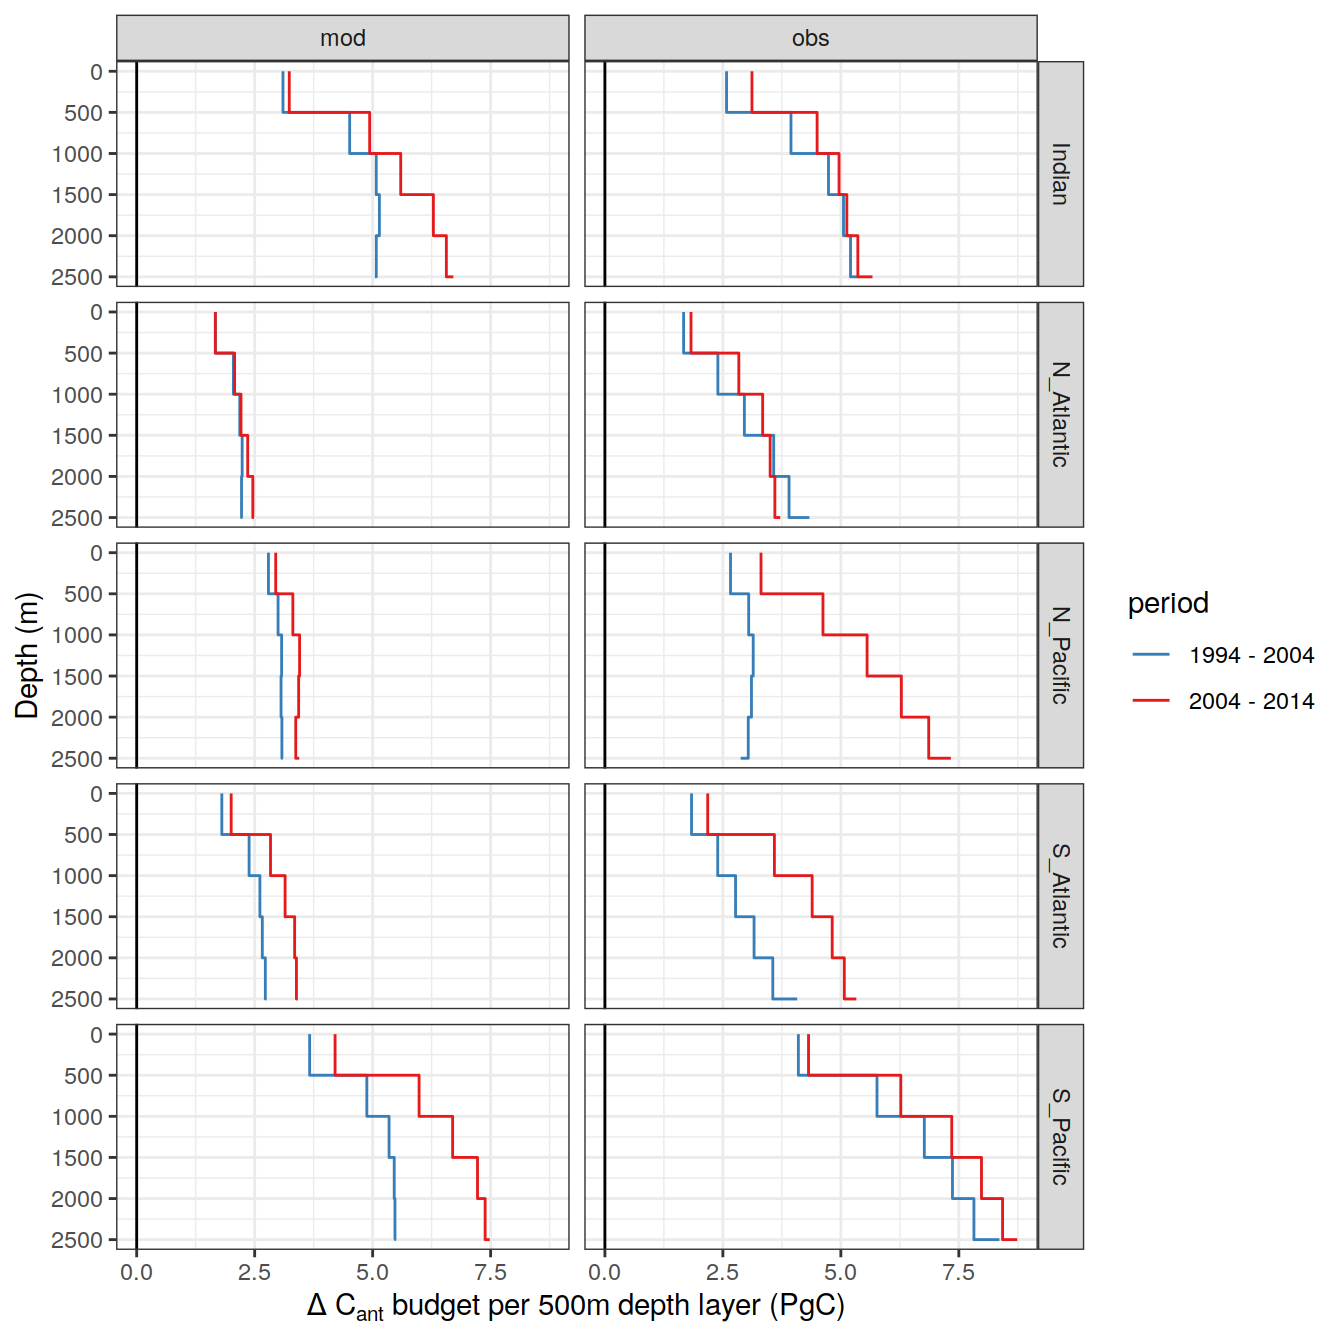
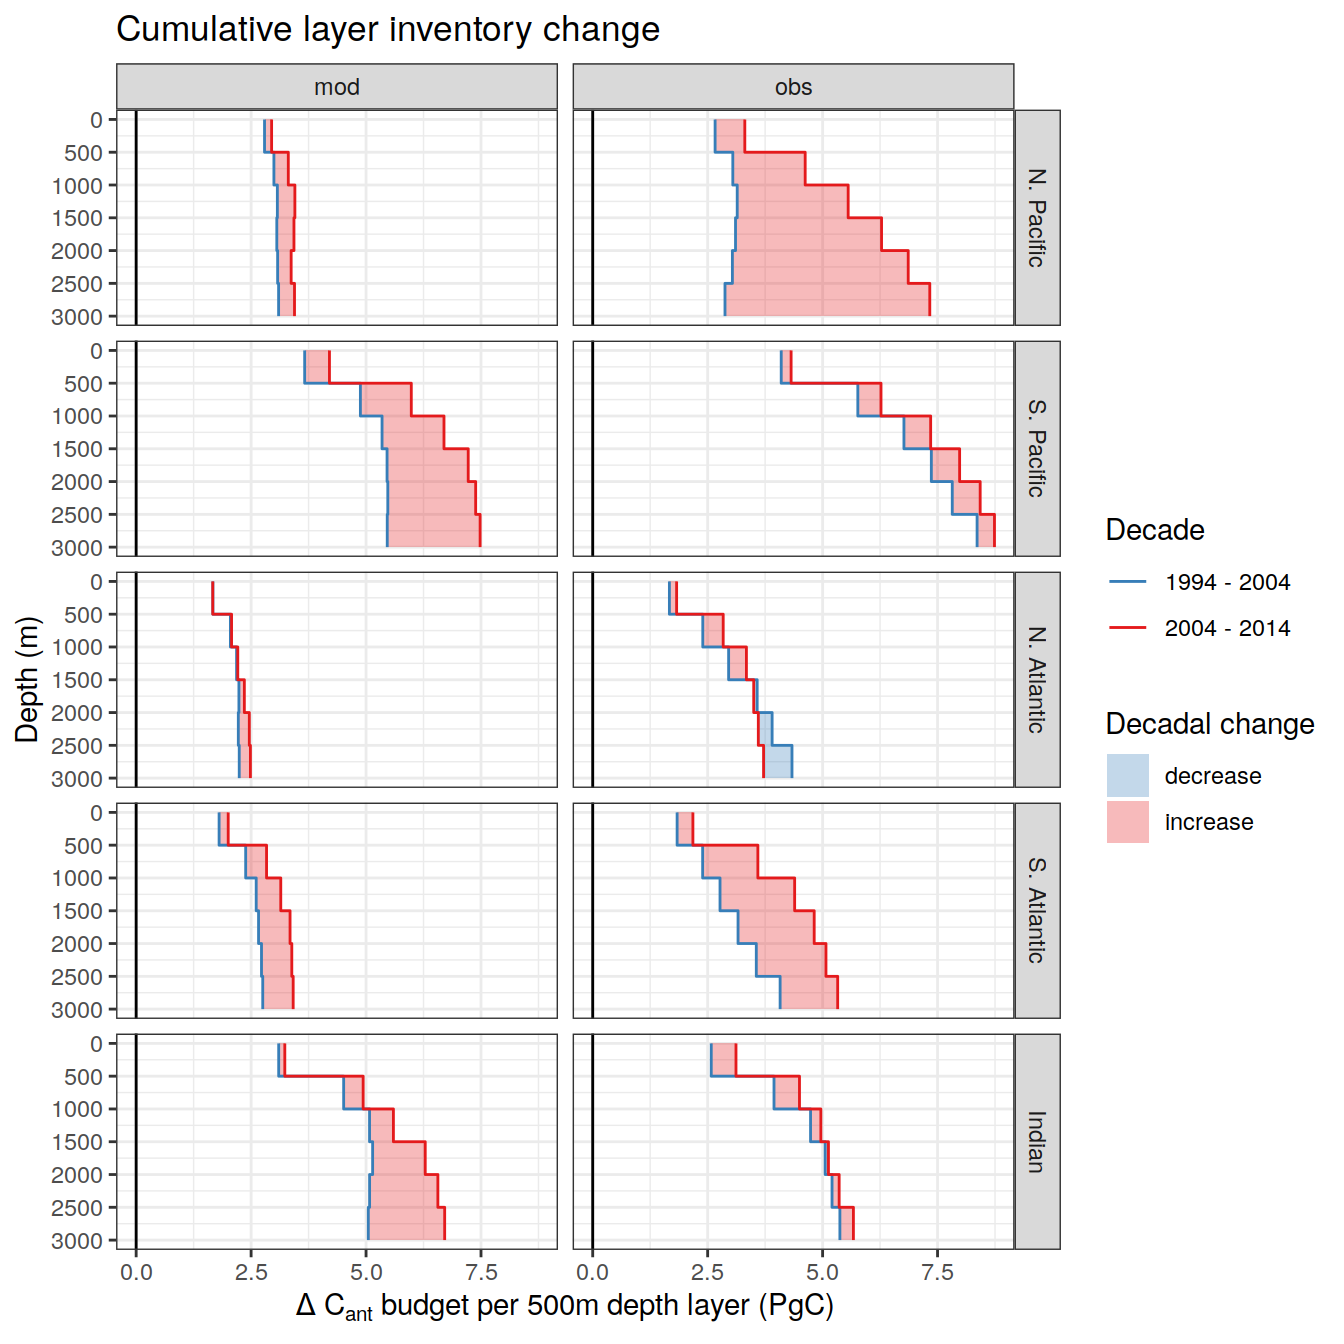
Build site.

diff --git a/docs/results_publication.html b/docs/results_publication.html
@@ -673,16 +673,16 @@ This reproducible <a href="https://rmarkdown.rstudio.com">R Markdown</a> analysi
 <div class="panel panel-default">
 <div class="panel-heading">
 <p class="panel-title">
-<a data-toggle="collapse" data-parent="#workflowr-checks" href="#strongRepositoryversionstrongahrefhttpsgithubcomjensdanielmuelleremlrobsanalysistree278523cb2294368982b27ad3f58e8e9eb65cab54targetblank278523ca"> <span class="glyphicon glyphicon-ok text-success" aria-hidden="true"></span> <strong>Repository version:</strong> <a href="https://github.com/jens-daniel-mueller/emlr_obs_analysis/tree/278523cb2294368982b27ad3f58e8e9eb65cab54" target="_blank">278523c</a> </a>
+<a data-toggle="collapse" data-parent="#workflowr-checks" href="#strongRepositoryversionstrongahrefhttpsgithubcomjensdanielmuelleremlrobsanalysistreeccf67235069aea2f0e77e4340d459d34b718ca70targetblankccf6723a"> <span class="glyphicon glyphicon-ok text-success" aria-hidden="true"></span> <strong>Repository version:</strong> <a href="https://github.com/jens-daniel-mueller/emlr_obs_analysis/tree/ccf67235069aea2f0e77e4340d459d34b718ca70" target="_blank">ccf6723</a> </a>
 </p>
 </div>
[2 lines of base64/hex data omitted]
 <div class="panel-body">
 <p>
 Great! You are using Git for version control. Tracking code development and connecting the code version to the results is critical for reproducibility.
 </p>
 <p>
-The results in this page were generated with repository version <a href="https://github.com/jens-daniel-mueller/emlr_obs_analysis/tree/278523cb2294368982b27ad3f58e8e9eb65cab54" target="_blank">278523c</a>. See the <em>Past versions</em> tab to see a history of the changes made to the R Markdown and HTML files.
+The results in this page were generated with repository version <a href="https://github.com/jens-daniel-mueller/emlr_obs_analysis/tree/ccf67235069aea2f0e77e4340d459d34b718ca70" target="_blank">ccf6723</a>. See the <em>Past versions</em> tab to see a history of the changes made to the R Markdown and HTML files.
 </p>
 <p>
 Note that you need to be careful to ensure that all relevant files for the analysis have been committed to Git prior to generating the results (you can use <code>wflow_publish</code> or <code>wflow_git_commit</code>). workflowr only checks the R Markdown file, but you know if there are other scripts or data files that it depends on. Below is the status of the Git repository when the results were generated:
@@ -732,6 +732,40 @@ Message
 </tr>
 </thead>
 <tbody>
+<tr>
+<td>
+Rmd
+</td>
+<td>
+<a href="https://github.com/jens-daniel-mueller/emlr_obs_analysis/blob/ccf67235069aea2f0e77e4340d459d34b718ca70/analysis/results_publication.Rmd" target="_blank">ccf6723</a>
+</td>
+<td>
+jens-daniel-mueller
+</td>
+<td>
+2022-01-31
+</td>
+<td>
+filled step plot for layer budgets
+</td>
+</tr>
+<tr>
+<td>
+html
+</td>
+<td>
+<a href="https://rawcdn.githack.com/jens-daniel-mueller/emlr_obs_analysis/d2ae5fe837a97b288a70ce6e6511041a872d12d1/docs/results_publication.html" target="_blank">d2ae5fe</a>
+</td>
+<td>
+jens-daniel-mueller
+</td>
+<td>
+2022-01-31
+</td>
+<td>
+Build site.
+</td>
+</tr>
 <tr>
 <td>
 Rmd
@@ -6040,21 +6074,74 @@ jens-daniel-mueller
 </div>
 <div id="basins" class="section level3" number="7.2.2">
 <h3><span class="header-section-number">7.2.2</span> 5 basins</h3>
-<pre class="r"><code>dcant_budget_basin_MLR_layer_all %&gt;%
+<pre class="r"><code>dcant_budget_change &lt;- dcant_budget_basin_MLR_layer_all %&gt;%
   filter(estimate == &quot;dcant&quot;,
          period != &quot;1994 - 2014&quot;,
          inv_depth &lt;= 3000) %&gt;%
-  arrange(inv_depth) %&gt;% 
   rename(dcant = value) %&gt;%
-  ggplot(aes(inv_depth-250, dcant, col=period)) +
+  select(-c(tref2, Version_ID)) %&gt;%
+  pivot_wider(names_from = period,
+              values_from = dcant) %&gt;%
+  mutate(sign = if_else(`2004 - 2014` - `1994 - 2004` &gt; 0,
+                        &quot;increase&quot;,
+                        &quot;decrease&quot;)) %&gt;%
+  mutate(
+    basin = str_replace(basin, &quot;_&quot;, &quot;. &quot;),
+    basin = fct_relevel(
+      basin,
+      &quot;N. Pacific&quot;,
+      &quot;S. Pacific&quot;,
+      &quot;N. Atlantic&quot;,
+      &quot;S. Atlantic&quot;,
+      &quot;Indian&quot;
+    )
+  )
+
+dcant_budget_layer &lt;- dcant_budget_basin_MLR_layer_all %&gt;%
+  filter(estimate == &quot;dcant&quot;,
+         period != &quot;1994 - 2014&quot;,
+         inv_depth &lt;= 3400) %&gt;%
+  rename(dcant = value) %&gt;%
+  mutate(
+    basin = str_replace(basin, &quot;_&quot;, &quot;. &quot;),
+    basin = fct_relevel(
+      basin,
+      &quot;N. Pacific&quot;,
+      &quot;S. Pacific&quot;,
+      &quot;N. Atlantic&quot;,
+      &quot;S. Atlantic&quot;,
+      &quot;Indian&quot;
+    )
+  ) %&gt;% 
+  group_by(basin, period, data_source) %&gt;% 
+  mutate(dcant = if_else(is.na(lead(dcant)), 888, dcant),
+         dcant = na_if(dcant, 888)) %&gt;%
+  fill(dcant) %&gt;% 
+  ungroup()
+
+dcant_budget_layer %&gt;%
+  ggplot() +
   geom_hline(yintercept = 0) +
-  geom_step(direction = &quot;vh&quot;) +
+  geom_rect(
+    data = dcant_budget_change,
+    aes(
+      xmin = inv_depth - 250,
+      xmax = inv_depth + 250,
+      ymin = `1994 - 2004`,
+      ymax = `2004 - 2014`,
+      fill = sign
+    ),
+    alpha = 0.3
+  ) +
+  geom_step(aes(inv_depth - 250, dcant, col = period), direction = &quot;vh&quot;) +
   coord_flip() +
   scale_x_reverse(breaks = seq(0, 3000, 500)) +
-  scale_color_brewer(palette = &quot;Set1&quot;, direction = -1) +
+  scale_color_brewer(palette = &quot;Set1&quot;, direction = -1, name = &quot;Decade&quot;) +
+  scale_fill_brewer(palette = &quot;Set1&quot;, direction = -1, name = &quot;Decadal change&quot;) +
   facet_grid(basin ~ data_source) +
   labs(y = dcant_layer_budget_label,
-       x = &quot;Depth (m)&quot;)</code></pre>
+       x = &quot;Depth (m)&quot;,
+       title = &quot;Layer inventory change&quot;)</code></pre>
 <p><img src="figure/results_publication.Rmd/depth_layer_budget_basin_MLR-1.png" width="672" style="display: block; margin: auto;" /></p>
 <p>
 <button type="button" class="btn btn-default btn-xs btn-workflowr btn-workflowr-fig" data-toggle="collapse" data-target="#fig-depth_layer_budget_basin_MLR-1">
@@ -6078,6 +6165,17 @@ Date
 </tr>
 </thead>
 <tbody>
+<tr>
+<td>
+<a href="https://github.com/jens-daniel-mueller/emlr_obs_analysis/blob/d2ae5fe837a97b288a70ce6e6511041a872d12d1/docs/figure/results_publication.Rmd/depth_layer_budget_basin_MLR-1.png" target="_blank">d2ae5fe</a>
+</td>
+<td>
+jens-daniel-mueller
+</td>
+<td>
+2022-01-31
+</td>
+</tr>
 <tr>
 <td>
 <a href="https://github.com/jens-daniel-mueller/emlr_obs_analysis/blob/b62308dba0722295c345e2f2e2c8b632d47f9803/docs/figure/results_publication.Rmd/depth_layer_budget_basin_MLR-1.png" target="_blank">b62308d</a>
@@ -6104,7 +6202,7 @@ jens-daniel-mueller
 </table>
 </div>
 </div>
-<pre class="r"><code>dcant_budget_basin_MLR_layer_all %&gt;%
+<pre class="r"><code>dcant_budget_change &lt;- dcant_budget_basin_MLR_layer_all %&gt;%
   filter(estimate == &quot;dcant&quot;,
          period != &quot;1994 - 2014&quot;,
          inv_depth &lt;= 3000) %&gt;%
@@ -6112,16 +6210,76 @@ jens-daniel-mueller
   arrange(inv_depth) %&gt;% 
   group_by(data_source, basin, period) %&gt;% 
   mutate(dcant_cum = cumsum(dcant)) %&gt;% 
-  ungroup() %&gt;% 
-  ggplot(aes(inv_depth-250, dcant_cum, col=period)) +
+  ungroup() %&gt;%
+  select(-c(tref2, Version_ID, dcant)) %&gt;%
+  pivot_wider(names_from = period,
+              values_from = dcant_cum) %&gt;%
+  mutate(sign = if_else(`2004 - 2014` - `1994 - 2004` &gt; 0,
+                        &quot;increase&quot;,
+                        &quot;decrease&quot;)) %&gt;%
+  mutate(
+    basin = str_replace(basin, &quot;_&quot;, &quot;. &quot;),
+    basin = fct_relevel(
+      basin,
+      &quot;N. Pacific&quot;,
+      &quot;S. Pacific&quot;,
+      &quot;N. Atlantic&quot;,
+      &quot;S. Atlantic&quot;,
+      &quot;Indian&quot;
+    )
+  )
+
+dcant_budget_layer &lt;- dcant_budget_basin_MLR_layer_all %&gt;%
+  filter(estimate == &quot;dcant&quot;,
+         period != &quot;1994 - 2014&quot;,
+         inv_depth &lt;= 3400) %&gt;%
+  rename(dcant = value) %&gt;%
+  arrange(inv_depth) %&gt;% 
+  group_by(data_source, basin, period) %&gt;% 
+  mutate(dcant_cum = cumsum(dcant)) %&gt;% 
+  ungroup() %&gt;%
+  mutate(
+    basin = str_replace(basin, &quot;_&quot;, &quot;. &quot;),
+    basin = fct_relevel(
+      basin,
+      &quot;N. Pacific&quot;,
+      &quot;S. Pacific&quot;,
+      &quot;N. Atlantic&quot;,
+      &quot;S. Atlantic&quot;,
+      &quot;Indian&quot;
+    )
+  ) %&gt;% 
+  group_by(basin, period, data_source) %&gt;% 
+  mutate(dcant_cum = if_else(is.na(lead(dcant_cum)), 888, dcant_cum),
+         dcant_cum = na_if(dcant_cum, 888)) %&gt;%
+  fill(dcant_cum) %&gt;% 
+  ungroup()
+
+
+
+dcant_budget_layer %&gt;%
+  ggplot() +
   geom_hline(yintercept = 0) +
-  geom_step(direction = &quot;vh&quot;) +
+  geom_rect(
+    data = dcant_budget_change,
+    aes(
+      xmin = inv_depth - 250,
+      xmax = inv_depth + 250,
+      ymin = `1994 - 2004`,
+      ymax = `2004 - 2014`,
+      fill = sign
+    ),
+    alpha = 0.3
+  ) +
+  geom_step(aes(inv_depth - 250, dcant_cum, col = period), direction = &quot;vh&quot;) +
   coord_flip() +
   scale_x_reverse(breaks = seq(0, 3000, 500)) +
-  scale_color_brewer(palette = &quot;Set1&quot;, direction = -1) +
+  scale_color_brewer(palette = &quot;Set1&quot;, direction = -1, name = &quot;Decade&quot;) +
+  scale_fill_brewer(palette = &quot;Set1&quot;, direction = -1, name = &quot;Decadal change&quot;) +
   facet_grid(basin ~ data_source) +
   labs(y = dcant_layer_budget_label,
-       x = &quot;Depth (m)&quot;)</code></pre>
+       x = &quot;Depth (m)&quot;,
+       title = &quot;Cumulative layer inventory change&quot;)</code></pre>
 <p><img src="figure/results_publication.Rmd/depth_layer_budget_basin_MLR_cumulative-1.png" width="672" style="display: block; margin: auto;" /></p>
 <p>
 <button type="button" class="btn btn-default btn-xs btn-workflowr btn-workflowr-fig" data-toggle="collapse" data-target="#fig-depth_layer_budget_basin_MLR_cumulative-1">
